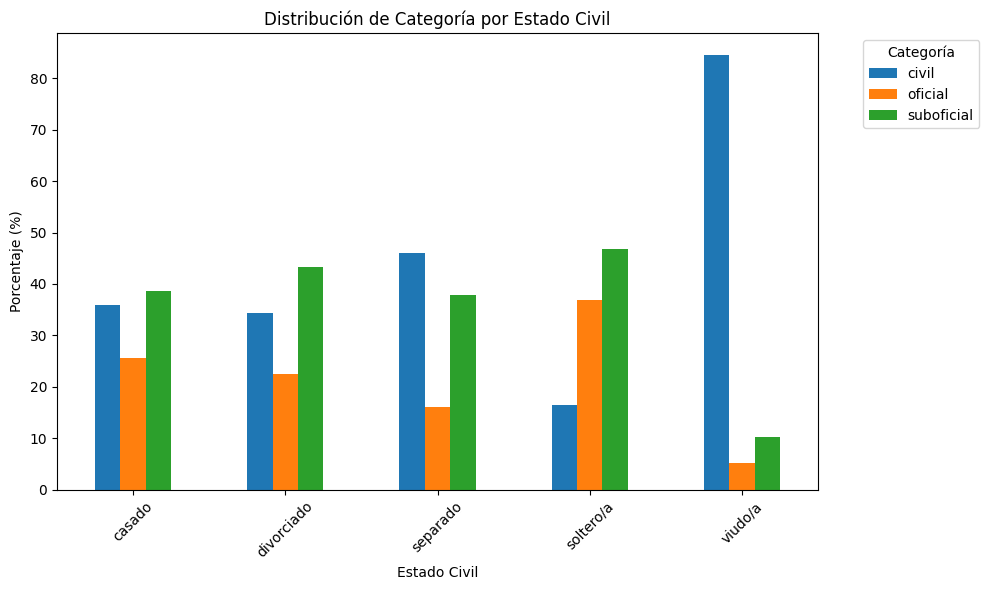
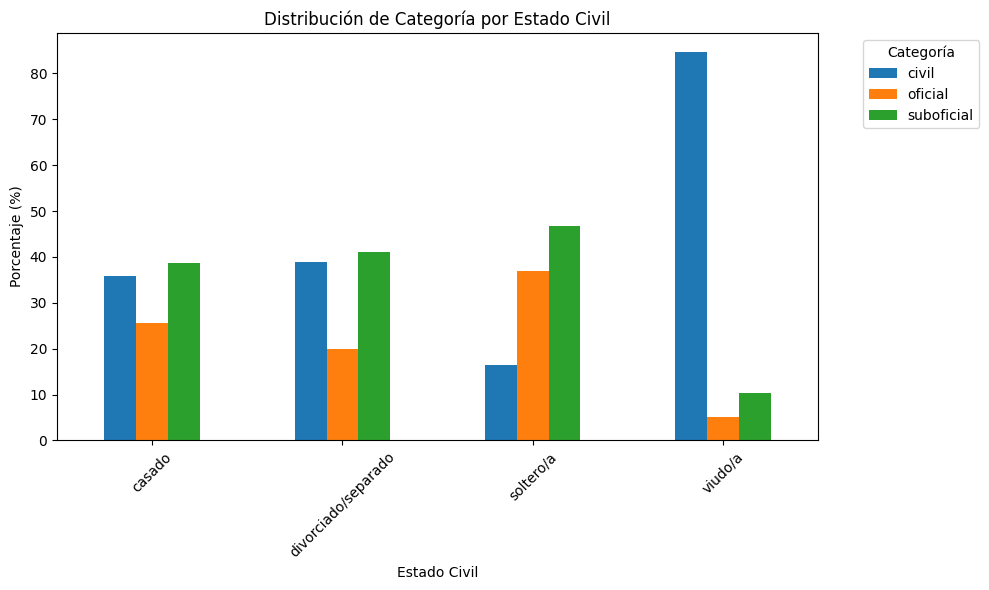
agregando script de analisis estadistico

diff --git a/Reportes/Analisis familiar/analisis_de_datos_fac_familiar.py b/Reportes/Analisis familiar/analisis_de_datos_fac_familiar.py
@@ -1,5 +1,5 @@
 # -*- coding: utf-8 -*-
-"""Análisis de Datos FAC - Bienestar Familiar
+"""Análisis de Datos FAC familiar
 
 Automatically generated by Colab.
 
@@ -14,6 +14,14 @@ import matplotlib.pyplot as plt # Se usa para hacer gráficas
 df = pd.read_excel("/content/JEFAB_2024_corregido.xlsx")
 
 print(df.columns.tolist()) # para ver las columnas
+# Unificar categorías
+df["ESTADO_CIVIL"] = df["ESTADO_CIVIL"].replace({
+    "divorciado": "divorciado/separado",
+    "separado": "divorciado/separado"
+})
+
+# Verificar cambios
+print(df["ESTADO_CIVIL"].value_counts())
 
 """Analisis estado civil"""
 
@@ -54,6 +62,21 @@ print("\n=== CRUCE HIJOS Y CONVIVENCIA ===")
 cruce = pd.crosstab(df['HIJOS'], df['HABITA_VIVIENDA_FAMILIAR'])
 print(cruce)
 
+# ================================
+# HIJOS vs CONVIVENCIA FAMILIAR
+# ================================
+print("\n=== HIJOS vs CONVIVENCIA FAMILIAR ===")
+tabla = pd.crosstab(df['HIJOS'], df['HABITA_VIVIENDA_FAMILIAR'])
+print(tabla)
+
+# Chi-cuadrado
+chi2, p, dof, expected = chi2_contingency(tabla)
+print("\nChi-cuadrado Hijos vs Convivencia: chi2 =", round(chi2,2), "p =", round(p,4))
+if p < 0.05:
+    print(" Existe asociación significativa entre Hijos y Convivencia Familiar")
+else:
+    print("No se encontró asociación significativa")
+
 """Analisis de Vivienda propia"""
 
 import matplotlib.pyplot as plt
@@ -69,6 +92,21 @@ print(tabla_hijos_vivienda)
 tabla_hijos_vivienda_pct = pd.crosstab(df['HIJOS'], df['VIVIENDA_PROPIA'], normalize='index') * 100
 print("\n=== TABLA PORCENTUAL HIJOS vs VIVIENDA PROPIA ===")
 print(tabla_hijos_vivienda_pct.round(2))
+
+# ================================
+# HIJOS vs VIVIENDA PROPIA
+# ================================
+print("\n=== HIJOS vs VIVIENDA PROPIA ===")
+tabla = pd.crosstab(df['HIJOS'], df['VIVIENDA_PROPIA'])
+print(tabla)
+
+# Chi-cuadrado
+chi2, p, dof, expected = chi2_contingency(tabla)
+print("\nChi-cuadrado Hijos vs Vivienda Propia: chi2 =", round(chi2,2), "p =", round(p,4))
+if p < 0.05:
+    print("👉 Existe asociación significativa entre Hijos y Vivienda Propia")
+else:
+    print("👉 No se encontró asociación significativa")
 
 tabla_hijos_vivienda = pd.crosstab(df['HIJOS'], df['VIVIENDA_PROPIA'], normalize='index') * 100
 
@@ -107,9 +145,64 @@ plt.legend(title="Categoría", bbox_to_anchor=(1.05, 1), loc='upper left')
 plt.tight_layout()
 plt.show()
 
+import pandas as pd
+from scipy.stats import chi2_contingency, fisher_exact, f_oneway, kruskal
+
+
+# ================================
+# ESTADO CIVIL vs CATEGORIA
+# ================================
+print("\n=== ESTADO CIVIL vs CATEGORIA ===")
+tabla = pd.crosstab(df['ESTADO_CIVIL'], df['CATEGORIA'])
+print(tabla)
+
+# Chi-cuadrado
+chi2, p, dof, expected = chi2_contingency(tabla)
+print("\nChi-cuadrado Estado Civil vs Categoría: chi2 =", round(chi2,2), "p =", round(p,4))
+if p < 0.05:
+    print(" Existe asociación significativa entre Estado Civil y Categoría")
+else:
+    print(" No se encontró asociación significativa")
+
 """Relacion entre estado civil y edad"""
 
 print(df.groupby("ESTADO_CIVIL")["EDAD2"].mean())
+
+# ================================
+# ESTADO CIVIL vs EDAD
+# ================================
+print("\n=== ESTADO CIVIL vs EDAD ===")
+print(df.groupby("ESTADO_CIVIL")["EDAD2"].mean())
+
+from scipy.stats import shapiro
+
+print("\n=== PRUEBA DE NORMALIDAD (Shapiro-Wilk) ===")
+
+for estado, grupo in df.groupby("ESTADO_CIVIL"):
+    datos = grupo["EDAD2"].dropna()
+    stat, p = shapiro(datos)
+    print(f"{estado}: p = {round(p,4)}")
+    if p < 0.05:
+        print(" No hay normalidad")
+    else:
+        print("Normalidad aceptada")
+
+
+# Agrupar por estado civil
+grupos = [grupo["EDAD2"].dropna().values for _, grupo in df.groupby("ESTADO_CIVIL")]
+
+
+
+# Kruskal-Wallis
+kruskal_test = kruskal(*grupos)
+print("Kruskal-Wallis H =", round(kruskal_test.statistic,2), "p =", round(kruskal_test.pvalue,4))
+
+#!pip install scikit-posthocs
+# Prueba de Dunn
+import scikit_posthocs as sp
+
+posthoc = sp.posthoc_dunn(df, val_col="EDAD2", group_col="ESTADO_CIVIL", p_adjust="bonferroni")
+print(posthoc)
 
 df.groupby("ESTADO_CIVIL")["EDAD2"].mean().plot(kind="bar")
 plt.show()
@@ -155,6 +248,21 @@ plt.show()
 cruce_hijos_pareja = pd.crosstab(df['HIJOS'], df['RELACION_PAREJA_ESTABLE'], margins=True)
 print("\n=== Cruce HIJOS vs RELACION_PAREJA_ESTABLE ===")
 print(cruce_hijos_pareja)
+
+# ================================
+# HIJOS vs RELACION PAREJA ESTABLE
+# ================================
+print("\n=== HIJOS vs RELACION PAREJA ESTABLE ===")
+tabla = pd.crosstab(df['HIJOS'], df['RELACION_PAREJA_ESTABLE'])
+print(tabla)
+
+# Fisher Exacto (para tablas 2x2)
+oddsratio, p = fisher_exact(tabla)
+print("Test exacto de Fisher p =", round(p,4))
+if p < 0.05:
+    print(" Existe asociación significativa entre Hijos y Relación de Pareja Estable")
+else:
+    print(" No se encontró asociación significativa")
 
 # Gráfico de barras agrupadas
 cruce_hijos_pareja_graf = pd.crosstab(df['HIJOS'], df['RELACION_PAREJA_ESTABLE'])
@@ -211,3 +319,15 @@ plt.ylabel("Número de Personas")
 plt.xticks(rotation=0)
 plt.legend(title="Maltrato Intrafamiliar")
 plt.show()
+
+import pandas as pd
+
+# Tabla de contingencia
+cruce_graf = pd.crosstab(df['CATEGORIA'], df['MALTRATO_INTRAFAMILIAR'])
+
+# Calcular porcentajes por fila
+cruce_pct = cruce_graf.div(cruce_graf.sum(axis=1), axis=0) * 100
+
+# Mostrar tabla de porcentajes
+print("Porcentajes por categoría:")
+print(cruce_pct.round(1))  # redondea a 1 decimal
